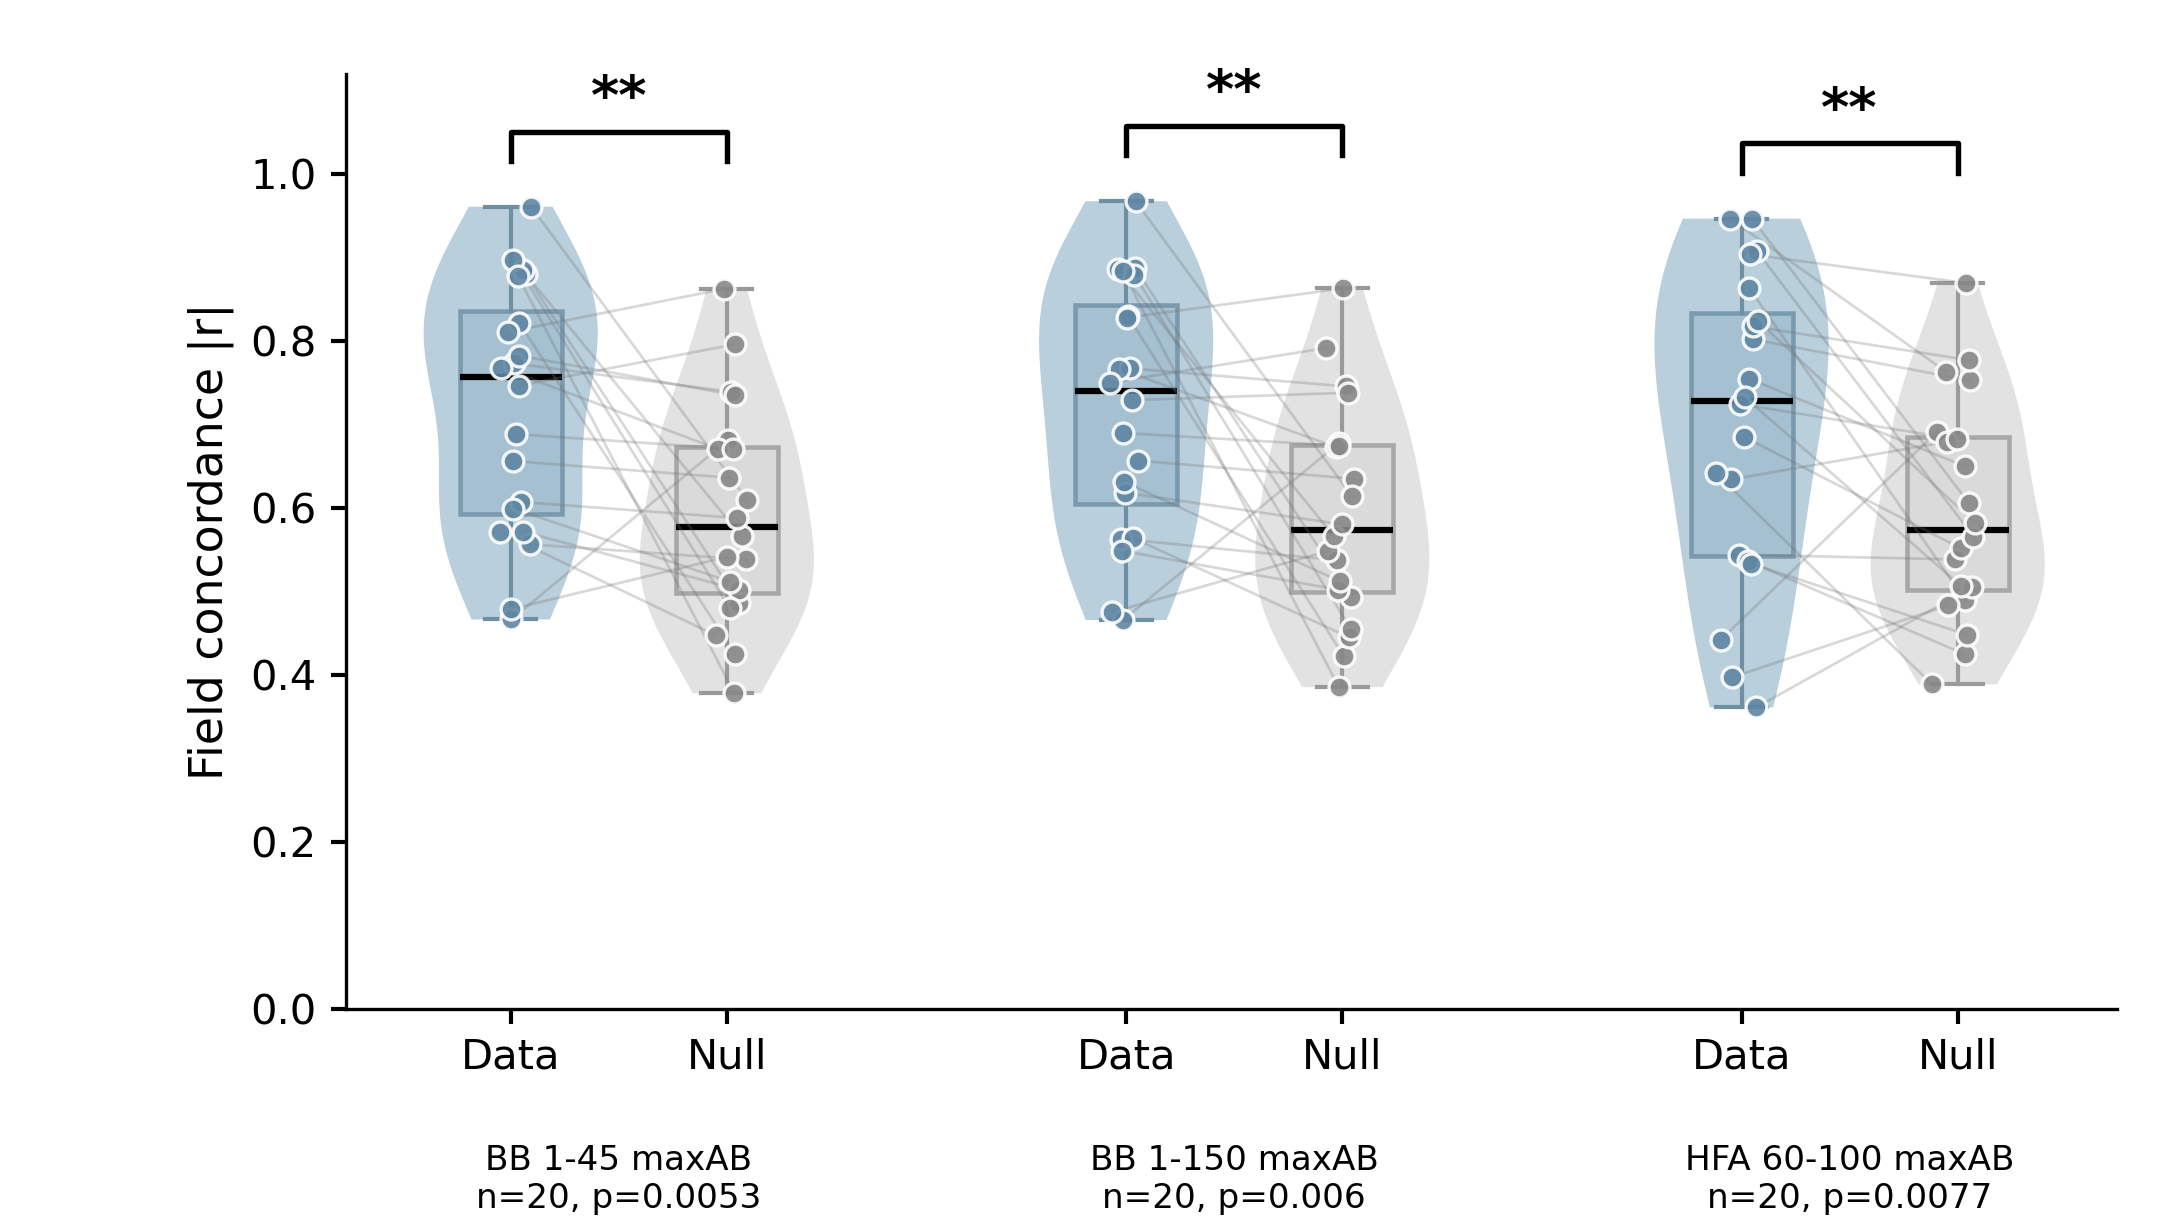
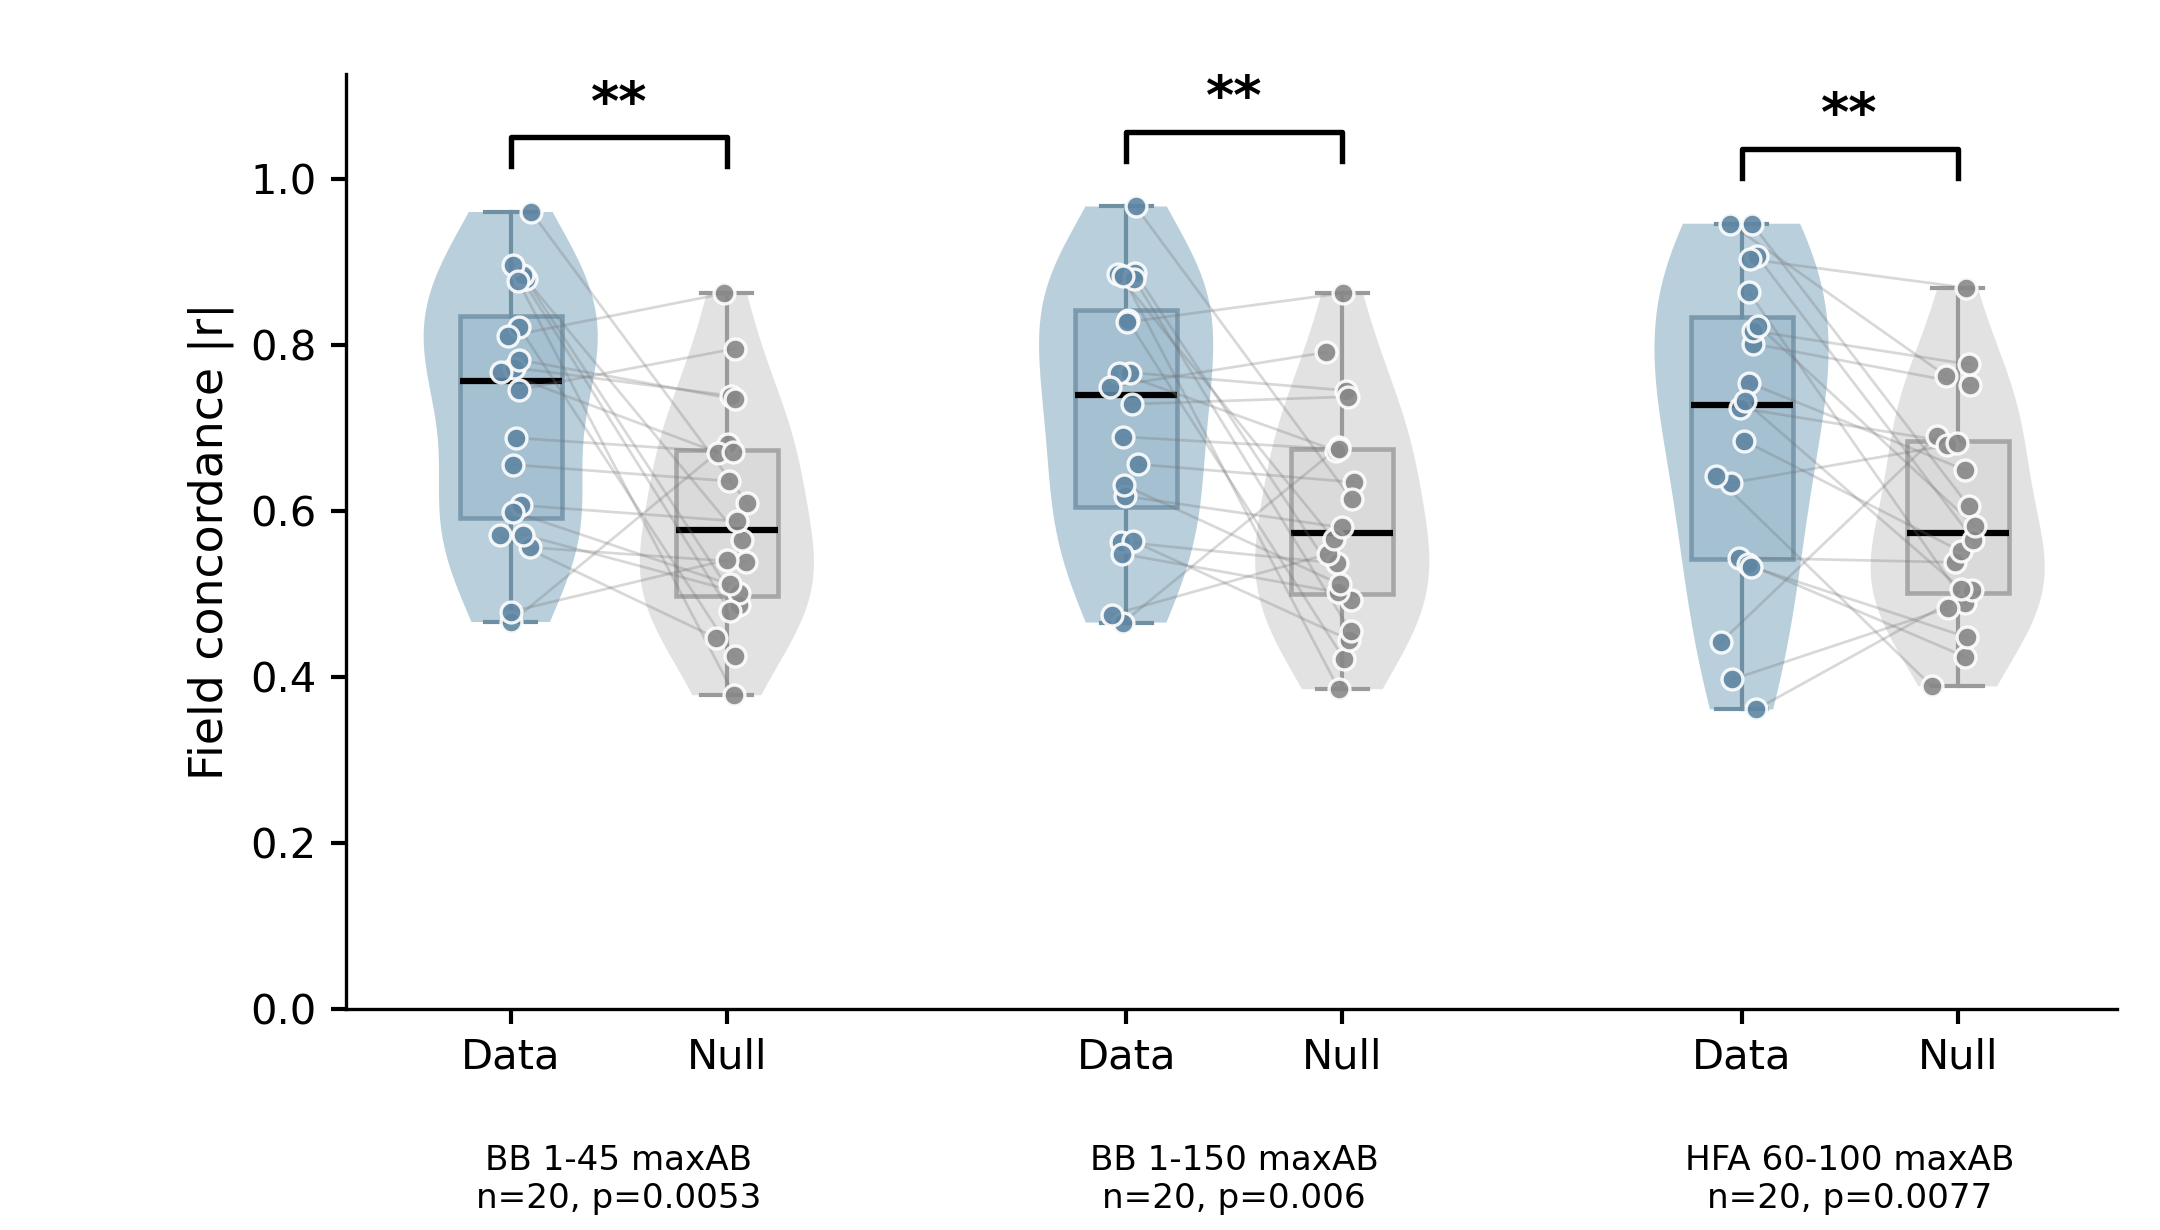
feat(fig3): field-concordance cohort-stat panel + raw spectral context polish

diff --git a/scripts/paper_figures/plot_fig3_field_concordance_cohort_stat.py b/scripts/paper_figures/plot_fig3_field_concordance_cohort_stat.py
@@ -22,6 +22,7 @@ import matplotlib
 matplotlib.use("Agg")
 import matplotlib.pyplot as plt
 import numpy as np
+from matplotlib.patches import Patch
 from scipy.stats import wilcoxon
 
 
@@ -130,18 +131,22 @@ def _add_violin_box_points(
     point_edge: str,
     jitter: np.ndarray | None = None,
 ) -> np.ndarray:
-    parts = ax.violinplot(
-        [values],
-        positions=[x],
-        widths=0.58,
-        showmeans=False,
-        showmedians=False,
-        showextrema=False,
-    )
-    body = parts["bodies"][0]
-    body.set_facecolor(facecolor)
-    body.set_edgecolor("none")
-    body.set_alpha(0.72)
+    # A one-subject pre-existing stratum is a descriptive case.  Keep the
+    # accepted box/point grammar but do not ask KDE-based violinplot to fit a
+    # singular one-point distribution.
+    if len(values) >= 2 and not np.allclose(values, values[0]):
+        parts = ax.violinplot(
+            [values],
+            positions=[x],
+            widths=0.58,
+            showmeans=False,
+            showmedians=False,
+            showextrema=False,
+        )
+        body = parts["bodies"][0]
+        body.set_facecolor(facecolor)
+        body.set_edgecolor("none")
+        body.set_alpha(0.72)
 
     ax.boxplot(
         [values],
@@ -176,11 +181,39 @@ def _add_sig_bracket(ax: plt.Axes, x1: float, x2: float, y: float, text: str) ->
     ax.text((x1 + x2) / 2, y + h + 0.008, text, ha="center", va="bottom", fontsize=13, fontweight="bold")
 
 
-def _plot(groups: list[dict], out_png: Path, out_pdf: Path) -> None:
-    rng = np.random.default_rng(20260626)
-    fig, ax = plt.subplots(figsize=(7.2, 4.1))
+def plot_paired_data_null_groups(
+    groups: list[dict],
+    out_png: Path,
+    out_pdf: Path,
+    *,
+    ylabel: str = "Field concordance |r|",
+    seed: int = 20260626,
+    xaxis_mode: str = "paired",
+    figsize: tuple[float, float] | None = None,
+    pair_gap: float = 0.72,
+    group_gap: float = 2.05,
+) -> None:
+    """Reusable paired Data-vs-Null painter from the accepted Fig3 panel.
 
-    positions = [(1.0, 1.72), (3.05, 3.77), (5.1, 5.82)]
+    Callers may provide ``display_p`` and ``p_label`` in each group when the
+    formal statistic is closed upstream (for example a fixed-window maxT p).
+    The violin, box, paired subject points/lines, bracket and caption grammar
+    remain identical to the accepted reference panel.
+    """
+    if not groups:
+        raise ValueError("paired Data-vs-Null plot requires at least one group")
+    if xaxis_mode not in {"paired", "group"}:
+        raise ValueError(f"unknown xaxis_mode:{xaxis_mode}")
+    rng = np.random.default_rng(seed)
+    if figsize is None:
+        figsize = (max(7.2, group_gap * len(groups) + 1.05), 4.1)
+    fig, ax = plt.subplots(figsize=figsize)
+
+    positions = [
+        (1.0 + group_gap * i, 1.0 + pair_gap + group_gap * i)
+        for i in range(len(groups))
+    ]
+    overall_max = 0.0
     for group, (x_data, x_null) in zip(groups, positions):
         label = group["label"]
         data = np.array([r["data"] for r in group["rows"]], dtype=float)
@@ -218,30 +251,68 @@ def _plot(groups: list[dict], out_png: Path, out_pdf: Path) -> None:
                 zorder=3,
             )
         ymax = max(float(np.nanmax(data)), float(np.nanmax(null)))
-        _add_sig_bracket(ax, x_data, x_null, ymax + 0.055, _p_stars(group["summary"]["wilcoxon_p_data_gt_null_median"]))
-        ax.text(
-            (x_data + x_null) / 2,
-            -0.145,
-            f"{label}\nn={group['summary']['n']}, p={_fmt_p(group['summary']['wilcoxon_p_data_gt_null_median'])}",
-            transform=ax.get_xaxis_transform(),
-            ha="center",
-            va="top",
-            fontsize=8.2,
+        overall_max = max(overall_max, ymax)
+        p_value = float(
+            group["display_p"] if "display_p" in group
+            else group["summary"]["wilcoxon_p_data_gt_null_median"]
         )
+        bracket_text = _p_stars(p_value)
+        if bool(group.get("p_on_bracket", False)):
+            bracket_text = f"{bracket_text}  p={_fmt_p(p_value)}"
+        _add_sig_bracket(ax, x_data, x_null, ymax + 0.055, bracket_text)
+        p_label = str(group.get("p_label", "p"))
+        caption = group.get(
+            "caption",
+            f"{label}\nn={group['summary']['n']}, {p_label}={_fmt_p(p_value)}",
+        )
+        if xaxis_mode == "paired":
+            ax.text(
+                (x_data + x_null) / 2,
+                -0.145,
+                str(caption),
+                transform=ax.get_xaxis_transform(),
+                ha="center",
+                va="top",
+                fontsize=8.2,
+            )
 
-    ax.set_ylabel("Field concordance |r|", fontsize=11)
-    ax.set_xticks([x for pair in positions for x in pair])
-    ax.set_xticklabels(["Data", "Null"] * len(positions), fontsize=10)
-    ax.set_xlim(0.45, 6.35)
-    ax.set_ylim(0.0, 1.12)
+    ax.set_ylabel(ylabel, fontsize=11)
+    if xaxis_mode == "group":
+        centers = [(x_data + x_null) / 2 for x_data, x_null in positions]
+        ax.set_xticks(centers)
+        ax.set_xticklabels(
+            [str(group.get("x_label", group["label"])) for group in groups],
+            fontsize=9.2,
+        )
+        ax.tick_params(axis="x", pad=4)
+        ax.legend(
+            handles=[
+                Patch(facecolor="#9fbdcf", edgecolor="#6f8fa3", label="Observed"),
+                Patch(facecolor="#d8d8d8", edgecolor="#9a9a9a", label="Channel-shuffle null"),
+            ],
+            loc="lower right",
+            frameon=False,
+            fontsize=8.2,
+            handlelength=1.15,
+        )
+    else:
+        ax.set_xticks([x for pair in positions for x in pair])
+        ax.set_xticklabels(["Data", "Null"] * len(positions), fontsize=10)
+    ax.set_xlim(0.45, positions[-1][1] + 0.53)
+    ax.set_ylim(0.0, max(1.12, overall_max + 0.16))
     ax.spines[["top", "right"]].set_visible(False)
     ax.tick_params(axis="both", width=1.0)
     ax.yaxis.grid(False)
     ax.set_axisbelow(True)
-    fig.subplots_adjust(left=0.16, right=0.98, top=0.94, bottom=0.18)
+    bottom = 0.14 if xaxis_mode == "group" else 0.18
+    fig.subplots_adjust(left=0.16, right=0.98, top=0.94, bottom=bottom)
     fig.savefig(out_png, dpi=300)
     fig.savefig(out_pdf)
     plt.close(fig)
+
+
+def _plot(groups: list[dict], out_png: Path, out_pdf: Path) -> None:
+    plot_paired_data_null_groups(groups, out_png, out_pdf)
 
 
 def _write_readme(groups: list[dict], out_dir: Path) -> None:

diff --git a/scripts/paper_figures/plot_fig3_raw_spectral_context.py b/scripts/paper_figures/plot_fig3_raw_spectral_context.py
@@ -190,7 +190,8 @@ def _plot_continuous_stacked(
         ymax = max(ymax, float(np.nanmax(yy)))
         ax.plot(t, yy, lw=0.38, color="0.20", alpha=0.85)
     ax.set_xlim(float(window[0]), float(window[1]))
-    pad = 0.08 * max(1.0, ymax - ymin)
+    span = ymax - ymin
+    pad = 0.08 * span if np.isfinite(span) and span > 0.0 else 0.08 * float(scale)
     ax.set_ylim(ymin - pad, ymax + pad)
     ax.set_yticks(offsets)
     ax.set_yticklabels([bipolar_alias_label(str(sw.ch_names[i])) for i in ch_idx], fontsize=6)
@@ -228,6 +229,7 @@ def _label_shaded_windows(
     post_window: tuple[float, float],
     *,
     y: float = 0.96,
+    post_label: str = "CLINICAL 0-10 s",
 ) -> None:
     items: list[tuple[float, str, str, float]] = [
         ((float(baseline[0]) + float(baseline[1])) / 2.0, "BASELINE", WINDOW_COLORS["baseline"], y),
@@ -238,7 +240,7 @@ def _label_shaded_windows(
         items.append((float(eeg_rel), "EEG ONSET", "#7A4F9A", y))
         if abs(clinical_center - float(eeg_rel)) < 12.0:
             clinical_y = y - 0.14
-    items.append((clinical_center, "CLINICAL 0-10 s", WINDOW_COLORS["early_ictal"], clinical_y))
+    items.append((clinical_center, post_label, WINDOW_COLORS["early_ictal"], clinical_y))
     for x, label, color, yy in items:
         ax.text(
             x,
